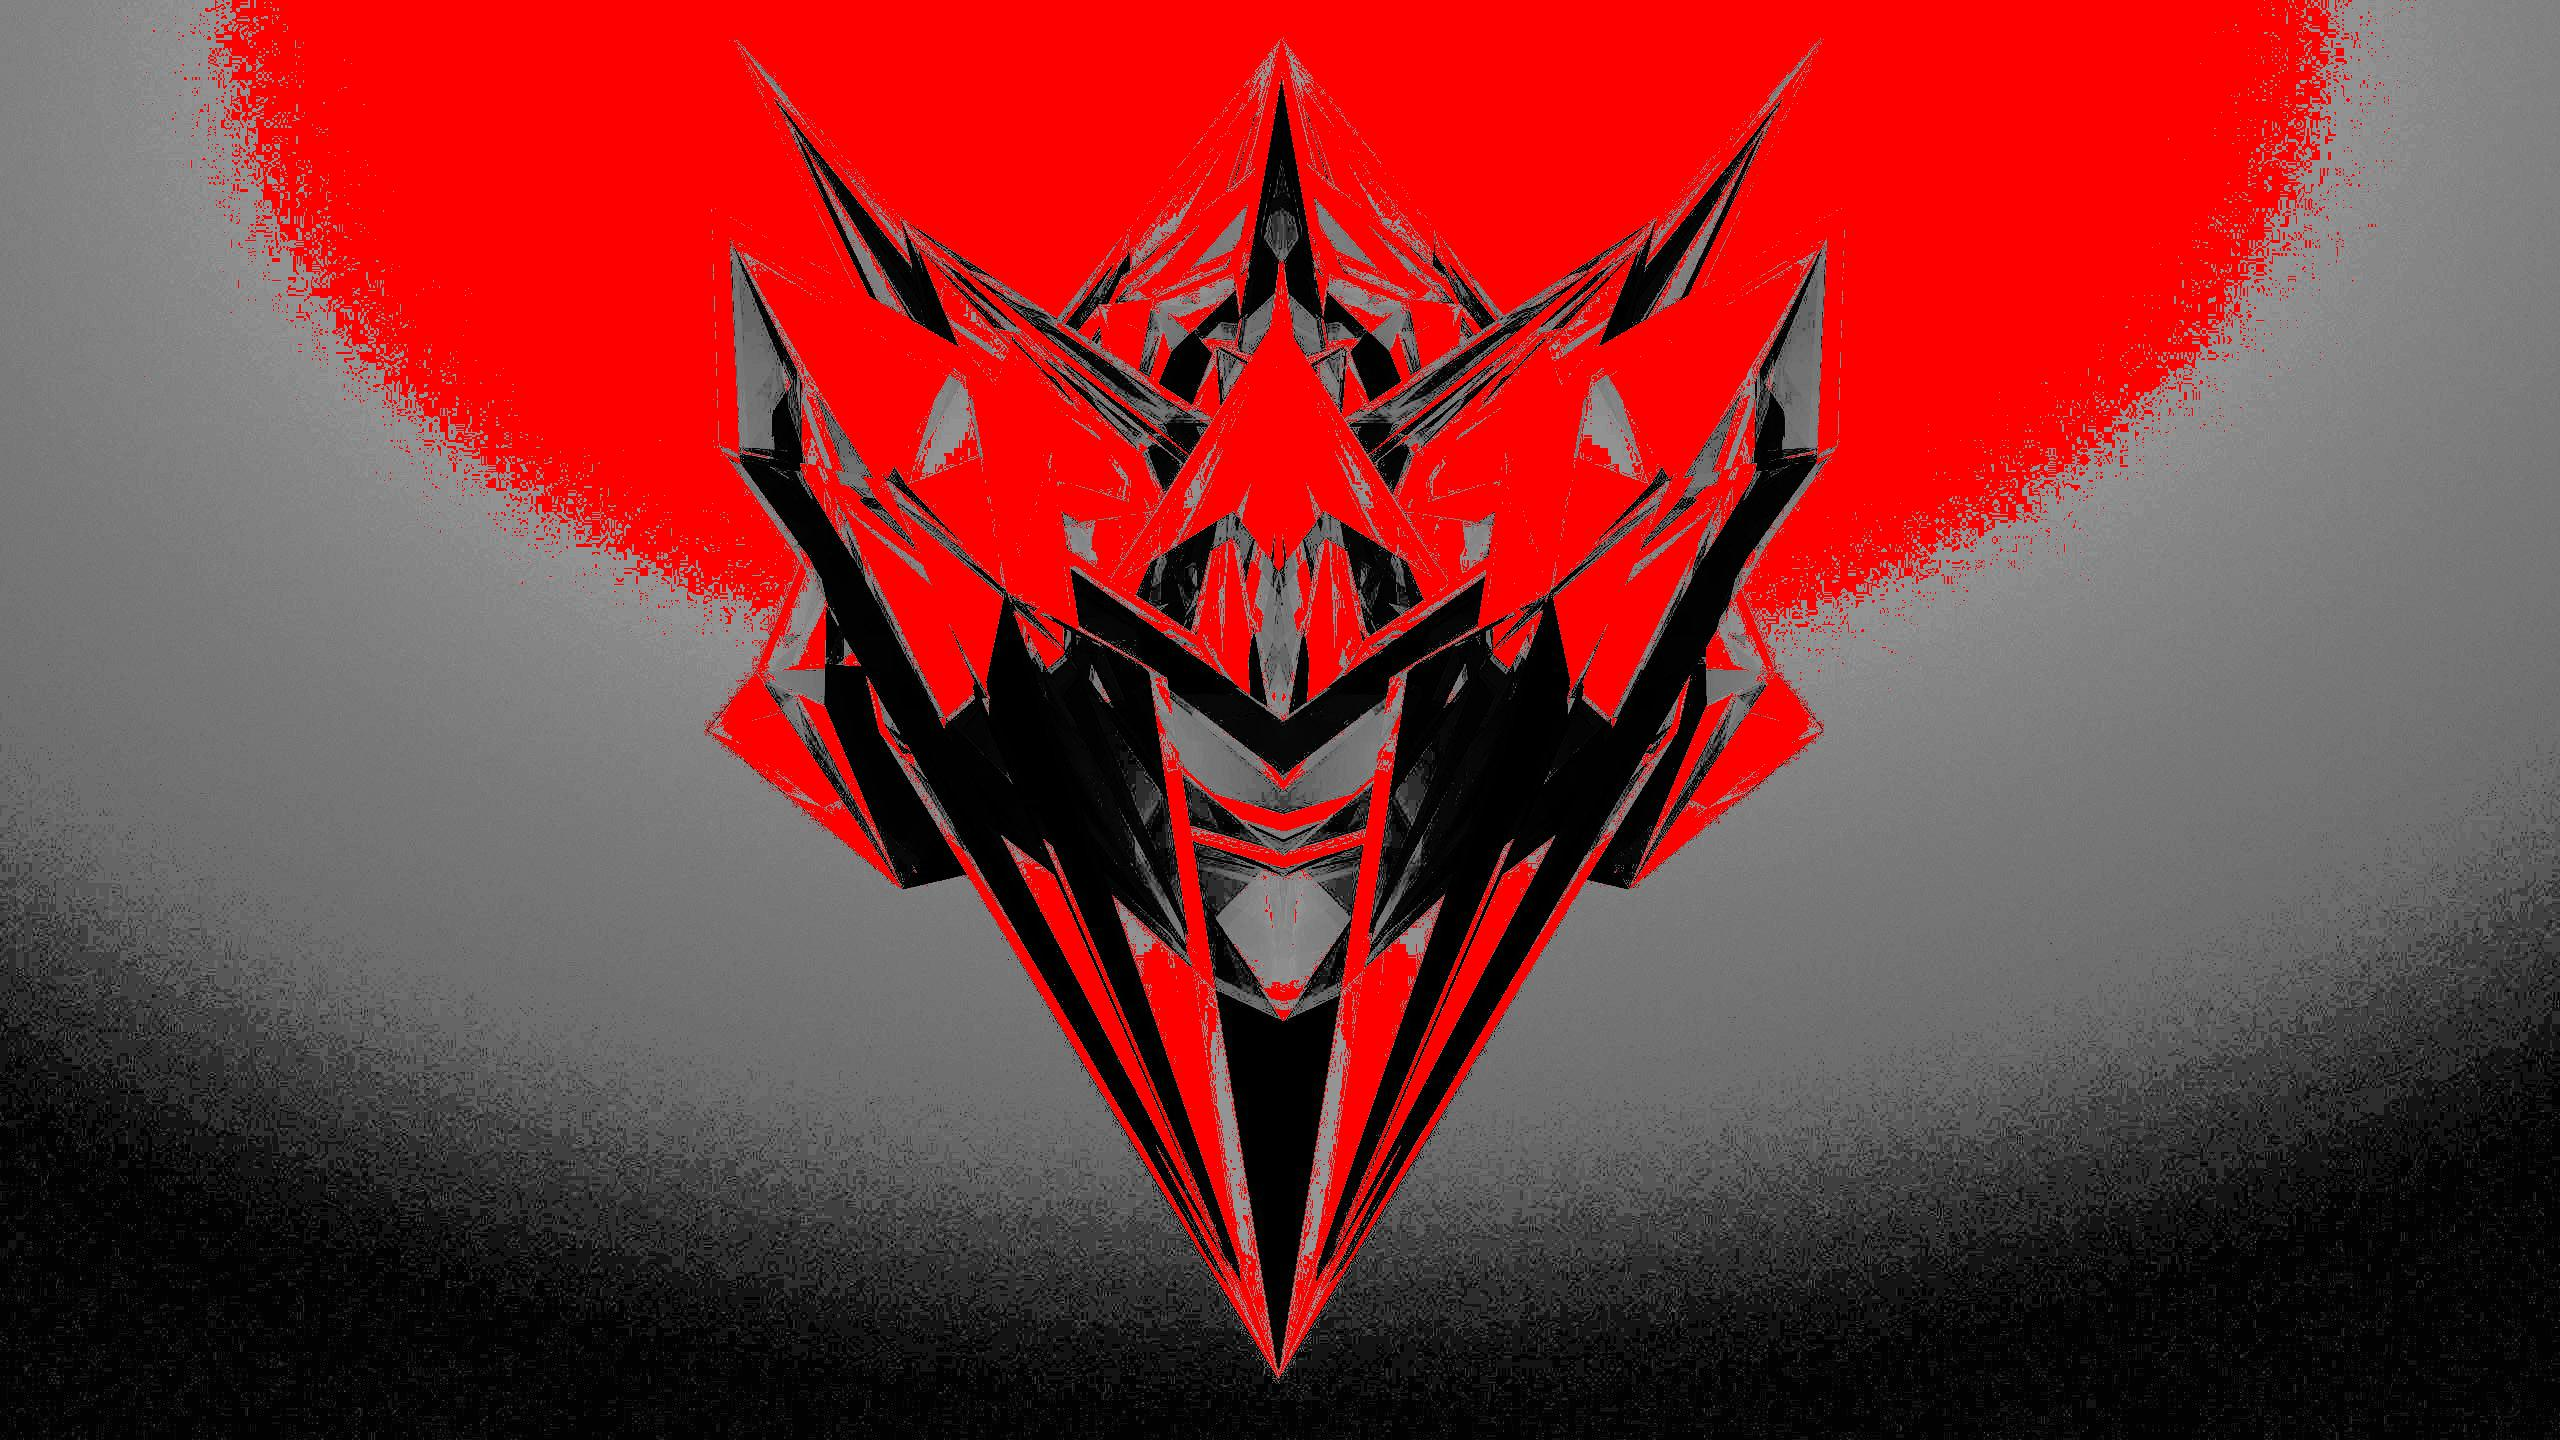
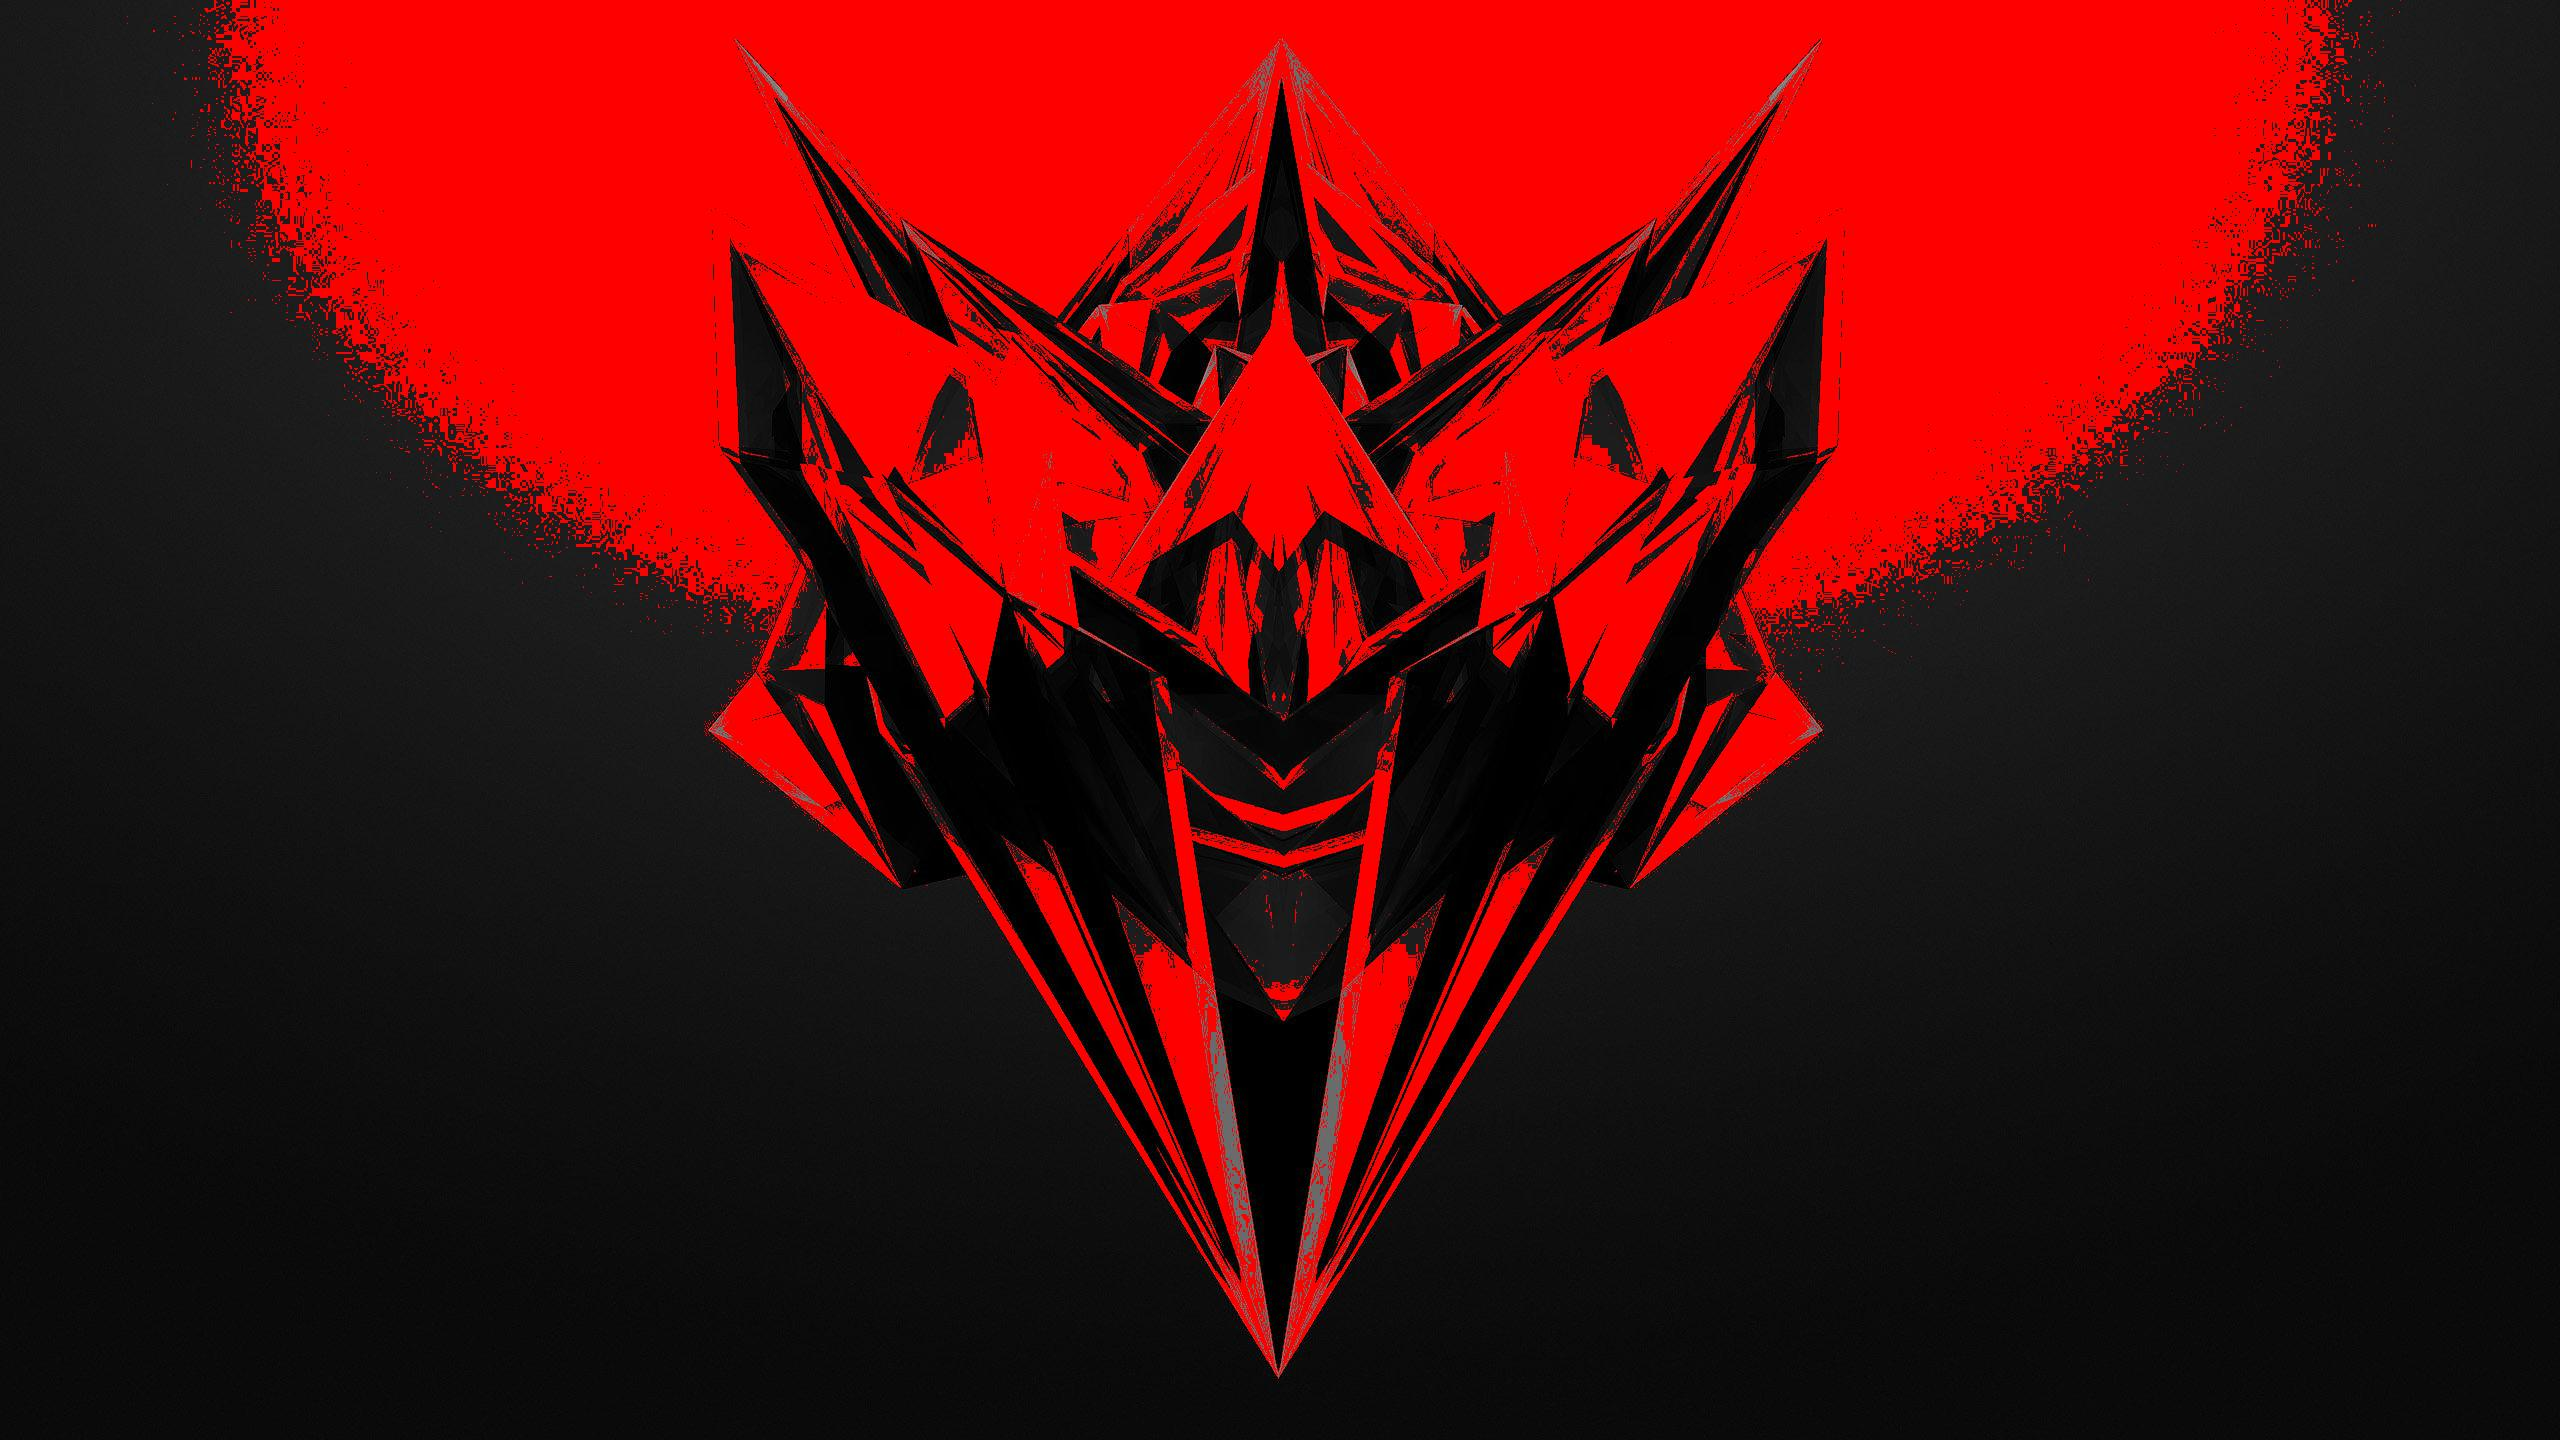
Diferencia entre imagenes y entropía

diff --git a/main.py b/main.py
@@ -88,6 +88,20 @@ def get_contrast(relative_histogram, img) :
     summ = math.sqrt(summ / total_pixels)
     return summ
 
+def get_entropy(img) :
+    acc = 0.0
+
+    accumulative_histogram = count_pixels_values_relative(img)
+    accumulative_histogram_normalized = normalize_histogram(accumulative_histogram, img)
+
+    for i in accumulative_histogram_normalized :
+        if i != 0 :
+            log_result = math.log2(i)
+            acc += i * log_result   
+    
+    entropy = acc * -1
+    return entropy
+
 def normalize_histogram(array, img) :
     arrayNormalized = array.copy()
     size = image_size(img)
@@ -245,7 +259,7 @@ def gamma_correction(img) :
     return img
 
 def differences_between_images(img1, img2):
-    img3 = img1
+    img3 = img1.copy()
     new_img = img3.load()
     w,h = img3.size
     for i in range(w) :
@@ -267,6 +281,9 @@ def differences_between_images(img1, img2):
         for j in range(h) :
             if (img3.getpixel((i,j)) > (threshold_value, threshold_value, threshold_value)) :
                 img3.putpixel((i,j), (255, 0, 0))
+            else :
+                img3.putpixel((i,j), (img1.getpixel((i,j)), img1.getpixel((i,j)), img1.getpixel((i,j))))
+
     return img3
 
 # We get the argument from pronm (name if the image)
@@ -289,11 +306,12 @@ if (not is_grey_scale(image2)) :
     image2FileName = array[0] + '_grayscale.jpg' 
     image2.save(image2FileName)
 
-# relative_histogram = count_pixels_values_relative(image)
+relative_histogram = count_pixels_values_relative(image)
 
-# accumulative_histogram = count_pixels_values_acumulative(relative_histogram)
+accumulative_histogram = count_pixels_values_acumulative(relative_histogram)
 
-# show_histograms(image, relative_histogram, accumulative_histogram)
+show_histograms(image, relative_histogram, accumulative_histogram)
+print(get_entropy(image))
 
 # current_brightness = get_bright(relative_histogram, image)
 # current_contrast = get_contrast(relative_histogram, image)
